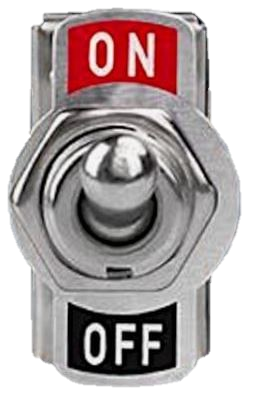
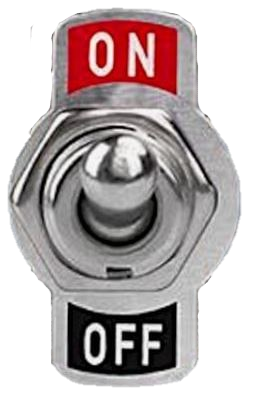
Updated Button Box visual elements

diff --git a/Docs/Releases.md b/Docs/Releases.md
@@ -1,8 +1,9 @@
-## 1.4, upcoming...
+## 1.4-stable, upcoming...
 
   1. Bugfixes, as always
   2. Documentation updates, as always
   3. Unicode based translation support. German translation will be available - other languages can be easily added
+  4. Updated photorealistic elements for Button Box
 
 ## 1.3.3-stable, 12/27/20
 
